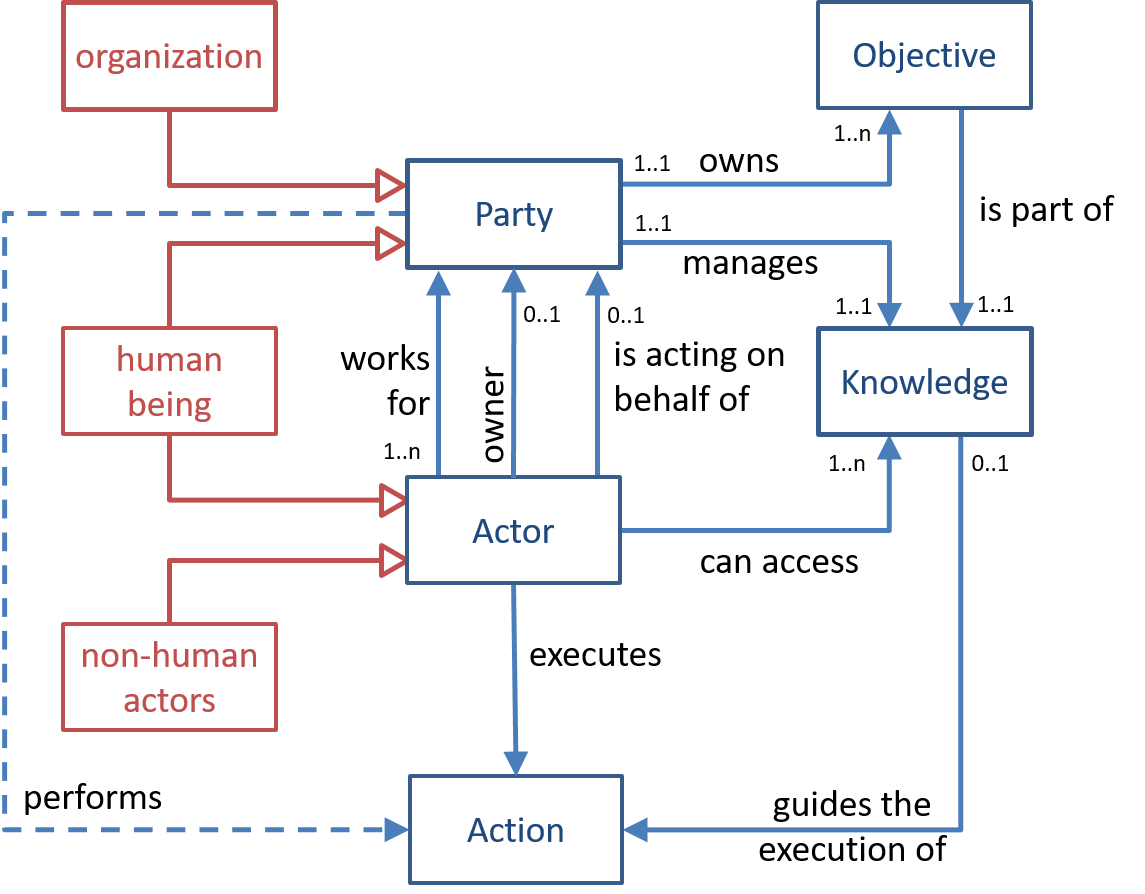
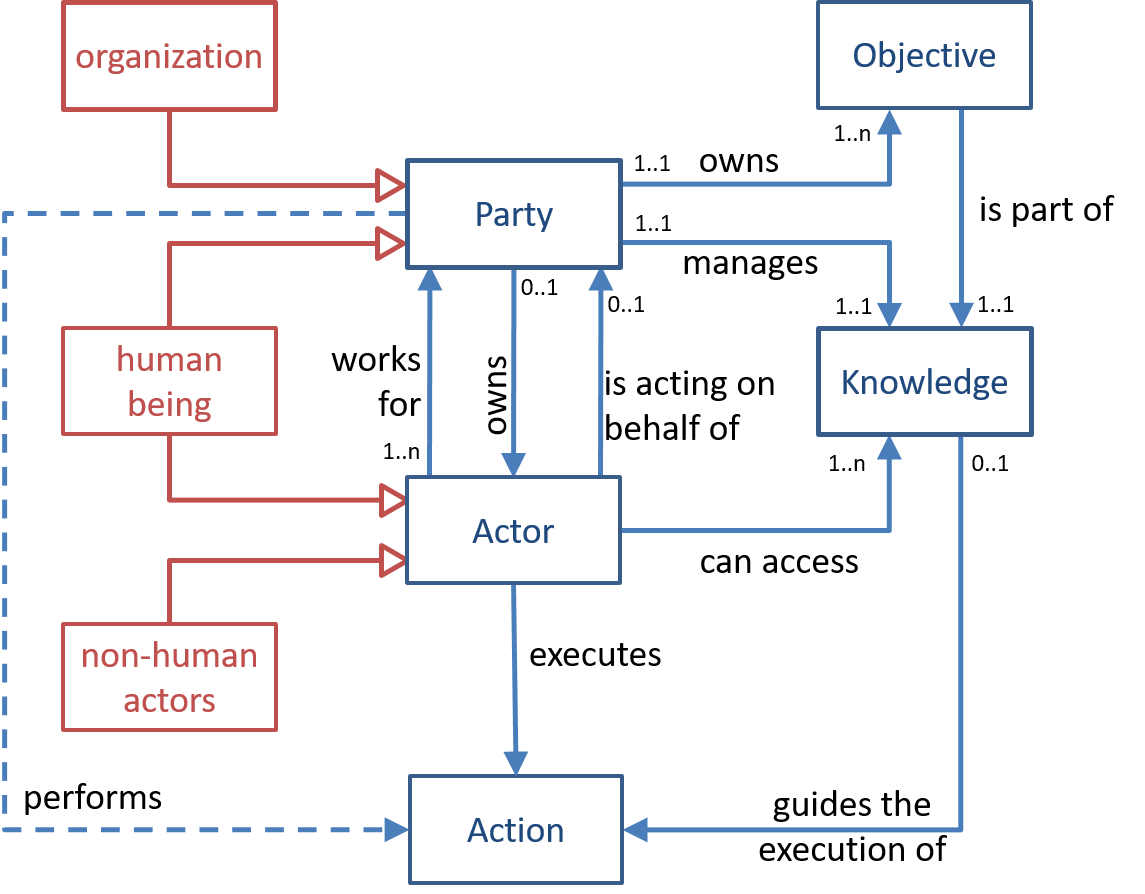
ongoing work. Includes new file `pattern-list.md` as per issue #21

diff --git a/docs/terms/pattern-party-actor-action.md b/docs/terms/pattern-party-actor-action.md
@@ -1,9 +1,9 @@
 ---
 id: pattern-party-actor-action
-title: "Pattern: Party-Action (Scope: eSSIF-Lab)"
+title: "Pattern: Party-Actor-Action"
 scopeid: essifLab
 type: pattern
-typeid: party-action
+typeid: party-actor-action
 stage: draft
 hoverText: "This pattern captures the foundational concepts and relations that we need for thinking about how things get done. It answers questions such as: 'Who/what does things?', 'How are their actions being guided/controlled?', 'Who controls whom/what?', 'Who/what may be held accountable?'"
 ---
@@ -15,37 +15,32 @@ This pattern captures the foundational concepts and relations that we need for t
 
 ## Purpose
 <!--Concisely describe what can you do with the pattern that is (at least) harder if you didn't have it.-->
-In order for people or organizations to decide what to do (themselves), what to ask others to do (for which these others generally require some form of compensation, how to know that the associated risks are worth taking, this pattern provides a simple mental model that provides the basis for thinking/reasoning about such questions. 
+In order for people or organizations to decide what to do (themselves), what to ask others to do (for which these others generally require some form of compensation, how to know that the associated risks are worth taking, this pattern provides a simple mental model that provides the basis for thinking/reasoning about such questions.
 
 ## Introduction
 <!--Gently introduce the pattern, by referring to real-world situations and using colloquial terms, so that when someone has read the text, (s)he knows what it is about, and is ready to delve into the specifics of the pattern-->
-One may readily observe that in some way, people (humans) and %%organizations|organization%% are similar. This is indicated e.g. by the notion of 'personality' that many %%legal jurisdictions%% assign to (specific kinds of) organizations. It allows rights and duties to be assigned to people and organizations alike. It also means that people and organizations can be held accountable, and be subjected to prosecution.
+One may readily observe that in some way, people (humans) and %%organizations|organization%% are similar. This is indicated e.g. by the notion of 'personality' that many %%legal jurisdictions|legal-jurisdiction%% assign to (specific kinds of) organizations. It allows rights and duties to be assigned to people and organizations alike. It also means that people and organizations can be held accountable, and be subjected to prosecution.
 
-One may also readily observe that in other ways, people and organizations differ. For example, people eat and drink, whereas organizations do not. People can sit behind a computer keyboard, type texts, hit the `Enter` button, e.g. to send an email. Organizations cannot do that. In short: people can act (do things), whereas organizations cannot.
+The main characteristic that people and organizations share, is everyone of them maintains (a body of) %%knowledge|knowledge%%. They acquire knowledge by observing the world around them, processing such observations, storing all that (using specific (tangible) representations of these (intangible) things, and sharing/disseminating it with others (here again, (tangible) representations must be used). We introduce the term %%party|party%% to refer to %%entities|entity%% that share this characteristic of maintaining (a body of) knowledge. Both people and organizations qualify as such.
 
-Our language allows us to say things that are untrue if taken literally, yet can become true when interpreted figuratively - but in a specific sense. If ACME is an organization and someone says: "I just received an email from ACME", this cannot be literally true as organizations cannot send emails. It is either a person or a computer system that has actually sent it. There is a broad consensus that the appropriate (figurative) way to interpret the sentence is to assume that there is a person or something else that can send mails, that has sent it while 'working for ACME'. 
+One may also readily observe that in other ways, people and organizations differ. For example, people eat and drink, whereas organizations do not. People can sit behind a computer keyboard, type texts, hit the `Enter` button, e.g. to send an email. Organizations cannot do that. In short: people can act (do things), whereas organizations cannot. The characteristic that sets people and organizations apart is the ability to act.
 
+We will use the term %%actor|actor%% to refer to %%entities|entity%% that are capable of acting (doing things). People will qualify, whereas organizations do not.
 
+Notwithstanding that organizations cannot act, it is quite common to hear statements that seem to imply that they can. If ACME is an organization and someone says: "I just received mail from ACME", this cannot be literally true as organizations cannot send messages. It is either a person or a computer system that has actually sent it. Statements such as these must therefor be interpreted in a figurative way, as a 'shorthand' for 'I just received mail that was sent by some %%actor|actor%% that was `working for` ACME', where `working for` may have various meanings:
 
-This pattern models that %%Parties|party%% (humans, organizations) perform %%Actions|action%% for the purpose of realizing their %%Objectives|objective%%. %%Parties|party%% are not considered to actually execute such %%Actions|action%%; they have (human and non-human) %%Actors|actor%% that work for them, execute such %%Actions|action%%, using the %%Party|party%%’s %%Knowledge|knowledge%% as the (authoritative) guidance for executing the %%Actions|action%% (as well as any other relevant %%Knowledge|knowledge%% they can access).
+1. ACME may be the %%owner|owner% of that actor. This would be the case if the mail was sent by one of ACME's running business applications.
+2. ACME may employ, or otherwise hire that actor. This would be the case if one of its employees sent the mail, or a business application that is owned by another party sent the mail on behalf of ACME. How this works is the subject of the pattern %%Mandates, Delegation and Hiring|pattern-mandates-delegation-hiring%%.
 
-<img
-  alt="Conceptual model of the 'Party-Actor-Action' pattern"
-  src={useBaseUrl('images/patterns/pattern-party-actor-action.png')}
-/>;
+Note that owning, employing (or hiring) an actor is a condition that usually exists for a considerable time, at least in the order of days (weeks, months). However, some actors (e.g. humans) are capable of multi-tasking, i.e. they can do several actions (pretty much) simultaneously. For example, a person that is working for some organization may make a personal phone call, or send a personal email during working hours. This shows that the 'working for` (some party) condition can mean two things: either it is the status/condition 
+- that allows/enables the actor to act on behalf of some party. We refer to that as `working for`, e.g. `actor A works for party P`.
+- the status/condition that an actor is executing a specific %%action|action%% on behalf of that party at some given point in time. We refer to that condition as `is acting on behalf of` or `is executing an action on behalf of`. We expect that whenever an actor is acting on behalf of some party, it must also work for that party.
 
+%%Actions|action%% can usually be executed in different ways. For example, sending a mail on behalf of some organization may require that the mail template and logo of that organization be used. Or accepting an order usually requires a check to see the order is 'clean', i.e. can be processed by others in the organization. What a 'clean-order check' comprises is to be determined by the organization.
 
-The essential characteristic of %%Parties|party%% is their 1-1 link with %%Knowledge|knowledge%%, which they continually update and use e.g. for reasoning, decision making, and determining e.g. what to do, when, and with whom. %%Knowledge|knowledge%% not only includes (observable) facts, but also opinions, e.g. regarding the %%Entities|entity%% it knows to exist, relations between them, and rules (constraints, [logic](https://en.wikipedia.org/wiki/Logic)[^1]) that can be used to classify and reasoning about them, and for making decisions.
+So in general, the execution of an action is (primarily) guided by the policies, working instructions etc. (i.e.: the %%knowledge|knowledge%%) of the party on whose behalf that action is executed. The actor can still use other, additional knowledge (of other parties) that it has access to, but the primary guidance that it *must* use originates from the party on whose behalf it executes the action. In the previous example, a person that would send mail on behalf of the organization would use its official paper, format the mail according to the organization's templates, comply with any other applicable requirements, and then use the knowledge of itself (as a person is a party) to provide the content, phrase sentences, etc.
 
-Perhaps the most important idea in this pattern is that our %%Party|party%% concept is not considered to (be able to) act, and they need %%Actors|actor%% (i.e. %%Entities|entity%% that _can_ act) to act on their behalf and thus make them perform. This does, however,  not preclude having %%Entities|entity%% that are both %%Party|party%% and %%Actor|actor%% - e.g. humans - and that such %%Entities|entity%% can act on their ‘own’ behalf. And we can continue to use the commonly used form of speech in which a %%Party|party%% performs some Action  by realizing that this means that there is (at least) one %%Actor|actor%% that is actually executing that %%Action|action%%.
-
-In this pattern, %%Knowledge|knowledge%% takes center stage. %%Knowledge|knowledge%% contains %%Objectives|objective%% to be realized and managed. This not only triggers all sorts of %%Actions|action%% to be performed, but also guides their execution in terms of when an Action should start, when it terminates, which %%Actors|actor%% qualify for executing it, etc. Everything that is specific for a %%Party|party%% is reflected in its %%Knowledge|knowledge%%.
-
-This works well for human beings, which are both a %%Party|party%% and an %%Actor|actor%%. So a human being can act, implying itself as an %%Actor|actor%%, and using its personal %%Knowledge|knowledge%% as guidance. The model also works when a human being (as a %%Party|party%%) may hire someone else (as an %%Actor|actor%%), e.g. to fill in his tax return form. This other is guided by the %%Knowledge|knowledge%% of the human being that hired him, and uses its own %%Knowledge|knowledge%% for the details of filling in the tax form.
-
-It also works well for organizations, which are typically companies, enterprises, governments or parts thereof, i.e. groups of human beings and possibly other %%Actors|actor%% that, as a group, fit the criteria for being a %%Party|party%%. This group of %%Actors|actor%% would typically work to realize the organization’s %%Objectives|objective%%, being guided by the organization’s %%Knowledge|knowledge%% (registrations, policies, etc.). Like human beings, an organization may (have an appropriate %%Actor|actor%%) decide to hire or fire %%Actors|actor%% for longer or shorter periods.
-
-%%Parties|party%% set %%Objectives|objective%% that they seek to achieve, the most basic of which perhaps is its mission, or its ‘raison d'être’, to the realization of which all of its %%Actions|action%% are (ultimately) aimed. Every Objective is owned by a single %%Party|party%% (we do not consider ‘shared objectives’[^2]).
+Finally, we note that a party `owns` %%objectives|objective%% that it seeks to fulfill or realize, and these are part of its knowledge. The relevance of this is that a large number of the decisions that parties make have to do with their managing their %%risks|risk%% (which [ISO 27000](https://www.iso.org/obp/ui#iso:std:iso-iec:27000:ed-4:v1:en)) defines as 'effect of uncertainty on objectives'), each of which is related to one or more of its objectives.
 
 ## Formalized model
 Here is a visual representation of this pattern, using the following [notations and conventions](/docs/notations-and-conventions#pattern-diagram-notations):
@@ -53,9 +48,11 @@ Here is a visual representation of this pattern, using the following [notations 
 <img
   alt="Conceptual model of the 'Party-Actor-Action' pattern"
   src={useBaseUrl('images/patterns/pattern-party-actor-action.png')}
-/>;
+/>
 
-The essential characteristic of %%Parties|party%% is their 1-1 link with %%Knowledge|knowledge%%, which they continually update and use e.g. for reasoning, decision making, and determining e.g. what to do, when, and with whom. %%Knowledge|knowledge%% not only includes (observable) facts, but also opinions, e.g. regarding the %%Entities|entity%% it knows to exist, relations between them, and rules (constraints, [logic](https://en.wikipedia.org/wiki/Logic)[^1]) that can be used to classify and reasoning about them, and for making decisions. 
+It shows that %%Parties|party%% (humans, organizations) perform %%Actions|action%% for the purpose of realizing their %%Objectives|objective%%. %%Parties|party%% are not considered to actually execute such %%Actions|action%%; they have (human and non-human) %%Actors|actor%% that work for them, execute such %%Actions|action%%, using the %%Party|party%%’s %%Knowledge|knowledge%% as the (authoritative) guidance for executing the %%Actions|action%% (as well as any other relevant %%Knowledge|knowledge%% they can access).
+
+The essential characteristic of %%Parties|party%% is their 1-1 link with %%Knowledge|knowledge%%, which they continually update and use e.g. for reasoning, decision making, and determining e.g. what to do, when, and with whom. %%Knowledge|knowledge%% not only includes (observable) facts, but also opinions, e.g. regarding the %%Entities|entity%% it knows to exist, relations between them, and rules (constraints, [logic](https://en.wikipedia.org/wiki/Logic)[^1]) that can be used to classify and reasoning about them, and for making decisions.
 
 Perhaps the most important idea in this pattern is that our %%Party|party%% concept is not considered to (be able to) act, and they need %%Actors|actor%% (i.e. %%Entities|entity%% that _can_ act) to act on their behalf and thus make them perform. This does, however,  not preclude having %%Entities|entity%% that are both %%Party|party%% and %%Actor|actor%% - e.g. humans - and that such %%Entities|entity%% can act on their ‘own’ behalf. And we can continue to use the commonly used form of speech in which a %%Party|party%% performs some Action  by realizing that this means that there is (at least) one %%Actor|actor%% that is actually executing that %%Action|action%%.
 

diff --git a/doc-sources/terminology/essifLab/glossary-essifLab.md b/doc-sources/terminology/essifLab/glossary-essifLab.md
@@ -21,13 +21,13 @@ This glossary lists the basic concepts that are needed by the various stakeholde
 * eSSIF-Lab
 
 ### Terms
-<!--Specify the %%term-files|term-file%% that are to serve as a source for this glossary. If a term is defined in a scope as well as in a %%term-file%%, the latter takes precedence.-->
+<!--Specify the %%term-files|term-file%% that are to serve as a source for this glossary. If a term is defined in a scope as well as in a %%term-file|term-file%%, the latter takes precedence.-->
 
 ### Patterns
-<!--Specify the %%pattern-files|pattern-file%% that are to serve as a source for this glossary. If a term is defined in a scope or as a term as well as in a %%pattern-file%%, the latter takes precedence.-->
+<!--Specify the %%pattern-files|pattern-file%% that are to serve as a source for this glossary. If a term is defined in a scope or as a term as well as in a %%pattern-file|pattern-file%%, the latter takes precedence.-->
 
 ### Concepts
-<!--Specify the %%concept-files|concept-file%% that are to serve as a source for this glossary. If a term is defined in a scope, or as a term, or in a pattern as well as in a %%concept-file%%, the latter takes precedence.-->
+<!--Specify the %%concept-files|concept-file%% that are to serve as a source for this glossary. If a term is defined in a scope, or as a term, or in a pattern as well as in a %%concept-file|concept-file%%, the latter takes precedence.-->
 
 <!--
 ---

diff --git a/doc-sources/terminology/essifLab/essifLabTerminology/glossary-terminology.md b/doc-sources/terminology/essifLab/essifLabTerminology/glossary-terminology.md
@@ -20,13 +20,13 @@ This glossary lists the basic concepts that are needed by the various stakeholde
 * eSSIF-Lab
 
 ### Terms
-<!--Specify the term-files that are to serve as a source for this glossary. If a term is defined in a scope as well as in a %%term-file%%, the latter takes precedence.-->
+<!--Specify the term-files that are to serve as a source for this glossary. If a term is defined in a scope as well as in a %%term-file|term-file%%, the latter takes precedence.-->
 
 ### Patterns
-<!--Specify the pattern-files that are to serve as a source for this glossary. If a term is defined in a scope or as a term as well as in a %%pattern-file%%, the latter takes precedence.-->
+<!--Specify the pattern-files that are to serve as a source for this glossary. If a term is defined in a scope or as a term as well as in a %%pattern-file|pattern-file%%, the latter takes precedence.-->
 
 ### Concepts
-<!--Specify the concept-files that are to serve as a source for this glossary. If a term is defined in a scope, or as a term, or in a pattern as well as in a %%concept-file%%, the latter takes precedence.-->
+<!--Specify the concept-files that are to serve as a source for this glossary. If a term is defined in a scope, or as a term, or in a pattern as well as in a %%concept-file|concept-file%%, the latter takes precedence.-->
 
 <!--
 ---

diff --git a/docs/terms/definition.md b/docs/terms/definition.md
@@ -27,7 +27,7 @@ Entity that comprises at a minimum:
 ## Examples
 <!--Provide a few sentences in which you give examples that obviously qualify as instances of `Concept`, and that do NOT obviously qualify. Also, provide examples that are not (so) obvious, but help users to better understand its intension.-->
 - The definition of the term %%definition|definition%% (a) is defined in, and hence valid in the scope `eSSIFLab`, (b) specifies a criterion (see the `Criteria` section above), and (c) is relevant (see the `Purpose` section above), and (d) has a name (i.e. `definition`) associated with it. Since it satisfies the criteria of `definition`, it can be referred to as 'the definition of `definition`'.
-- The %%concepts|concept%% defined within the scope eSSIFLab have definitions associated with them, where the criteria, relevance and terms are defined in the %%concept-file%% of that concept.
+- The %%concepts|concept%% defined within the scope eSSIFLab have definitions associated with them, where the criteria, relevance and terms are defined in the %%concept-file|concept-file%% of that concept.
 
 ## Related Concepts
 <!--Link to any %%concepts|concept%% that are similar but distinct, with a note about the relationship.-->

diff --git a/docs/terms/party.md b/docs/terms/party.md
@@ -25,7 +25,7 @@ to be elaborated
 <!--Mention and link to the patterns in which this concept plays a (significant) role (possibly explaining the reason/purpose if appropriate), e.g.: -->
 The concept we know as 'party' serves a central role, and therefore occurs in various patterns, suc as:
 - The %%party-actor-action|pattern-party-actor-action%% provides an overview of how this concept fits in with related concepts.
-- the %%jurisdiction pattern|pattern-jurisdiction%%, which shows that a party can operate the %%legal-system%% of a %%jurisdiction%%, enforcing the rules in some scopes to the %%(legal) entities|legal-entity%% that it knows to exist and to which these rules apply.
+- the %%jurisdiction pattern|pattern-jurisdiction%%, which shows that a party can operate the %%legal-system|legal-system%% of a %%jurisdiction|jurisdiction%%, enforcing the rules in some scopes to the %%(legal) entities|legal-entity%% that it knows to exist and to which these rules apply.
 
 ---
 [^1]: Reasoning means: inferring conclusions from data, regardless of the kind of logic that is being used, or whether the reasoning is coherent, or consistent.

diff --git a/docs/terms/pattern-jurisdiction.md b/docs/terms/pattern-jurisdiction.md
@@ -1,6 +1,6 @@
 ---
 id: pattern-jurisdiction
-title: "Pattern: Jurisdiction (Scope: eSSIF-Lab)"
+title: "Pattern: Jurisdiction"
 scopeid: essifLab
 type: pattern
 typeid: jurisdiction
@@ -36,6 +36,6 @@ Here is a visual representation of this pattern, using the following [notations 
 <img
   alt="Conceptual model of the 'Jurisdiction' pattern"
   src={useBaseUrl('images/patterns/pattern-jurisdiction.png')}
-/>;
+/>
 
 The figure shows that a %%jurisdiction|jurisdiction%% comprises a single %%scope|scope%%, a (single) %%legal system|legal-system%% system and a %%party|party%% that operates this Legal System within the Scope (which it controls). The Legal System applies to %%Entities|entity%% that are known in the jurisdiction (e.g. registered with the party as per the rules of the legal system, leading to their being registered/represented in the %%knowledge|knowledge%% of that party). These are what, specifically for %%legal jurisdictions|legal-jurisdiction%% are called %%legal entities|legal-entity%%.

diff --git a/docs/terms/entity.md b/docs/terms/entity.md
@@ -18,7 +18,7 @@ This term enables us to refer to anything, or to postulate the existence of some
 Something, anything, that some %%party|party%% knows to exist
 
 ## Related Concepts:
-- a %%legal entity|legal-entity%% is an entity that is known by (i.e. registered in the %%knowledge|knowledge%% of) a %%party|party%% that operates the %%legal-system|legal-system%% of a %%jurisdiction%%. (Details are in the %%jurisdiction pattern|pattern-jurisdiction%%)
+- a %%legal entity|legal-entity%% is an entity that is known by (i.e. registered in the %%knowledge|knowledge%% of) a %%party|party%% that operates the %%legal-system|legal-system%% of a %%jurisdiction|jurisdiction%%. (Details are in the %%jurisdiction pattern|pattern-jurisdiction%%)
 
 ## Background:
 The %%terminology pattern|pattern-terminology%% provides an overview of how this concept fits in with related concepts.

diff --git a/doc-sources/terminology/readme-making-contributions.md b/doc-sources/terminology/readme-making-contributions.md
@@ -18,37 +18,37 @@ In order to contribute, you first need to understand the [ideas/concepts behind 
 
 ## Scope-files
 
-:::info editors note
+:::info Editors Note
 Content may be provided by TNO.
 :::
 
 ## Concept-files
 
-:::info editors note
+:::info Editors Note
 Content may be provided by TNO.
 :::
 
 ## Term-files
 
-:::info editors note
+:::info Editors Note
 Content may be provided by TNO.
 :::
 
 ## Pattern-files
 
-:::info editors note
+:::info Editors Note
 Content may be provided by TNO.
 :::
 
 ## Glossary-files
 
-:::info editors note
+:::info Editors Note
 Content may be provided by TNO.
 :::
 
 ## Dictionary-files
 
-:::info editors note
+:::info Editors Note
 Content may be provided by TNO.
 :::
 

diff --git a/docs/terminology-engine-v1-templates/concept-file.md b/docs/terminology-engine-v1-templates/concept-file.md
@@ -7,7 +7,6 @@ typeid: conceptID
 stage: draft
 hoverText: "popuptext for 'conceptID' (tbd)"
 ---
-
 <!--A concept tries to capture the idea behind a classification of entities, allowing us to reason about everything in the class as if it were one thing. This file specifies the idea(s) that, within the scope of `<existing-scopeID>` will be referred to using `<New Term>`.
 Please fill in the placeholders in this file as follows:
 - `<existing-scopeID>`: machine readable text that identifies the scope in which this term is defined;

diff --git a/docs/terms/pattern-mandates-delegation-hiring.md b/docs/terms/pattern-mandates-delegation-hiring.md
@@ -1,0 +1,15 @@
+---
+id: pattern-mandates-delegation-hiring
+title: "Pattern: Mandates, Delegation and Hiring"
+scopeid: essifLab
+type: pattern
+typeid: mandates-delegation-hiring
+stage: draft
+hoverText: "This pattern (which remains to be documented) captures the ideas behind mandating, delegating, hiring and their relations. This is a work-in-progress"
+---
+
+import useBaseUrl from '@docusaurus/useBaseUrl';
+
+:::info Editors Note
+TNO is expected to produce the first draft of this document
+:::

diff --git a/docs/terms/risk.md b/docs/terms/risk.md
@@ -1,0 +1,23 @@
+---
+id: risk
+title: "Risk"
+scopeid: essifLab
+type: concept
+typeid: risk
+stage: draft
+hoverText: "the deviation of the expected realization (e.g. results) of an objective of a party"
+---
+
+:::info Editors Note
+TNO is expected to produce the first draft of this document
+:::
+
+## Short Description
+
+## Purpose
+
+## Criterion:
+
+## References
+
+[1]: NRM, [ISO 27000:2016](https://www.iso.org/obp/ui#iso:std:iso-iec:27000:ed-4:v1:en)

diff --git a/doc-sources/terminology/essifLab/pattern-party-actor-action.md b/doc-sources/terminology/essifLab/pattern-party-actor-action.md
@@ -1,6 +1,6 @@
 ---
 id: pattern-party-actor-action
-title: "Pattern: Party-Action (Scope: eSSIF-Lab)"
+title: "Pattern: Party-Action"
 scopeid: essifLab
 type: pattern
 typeid: party-action
